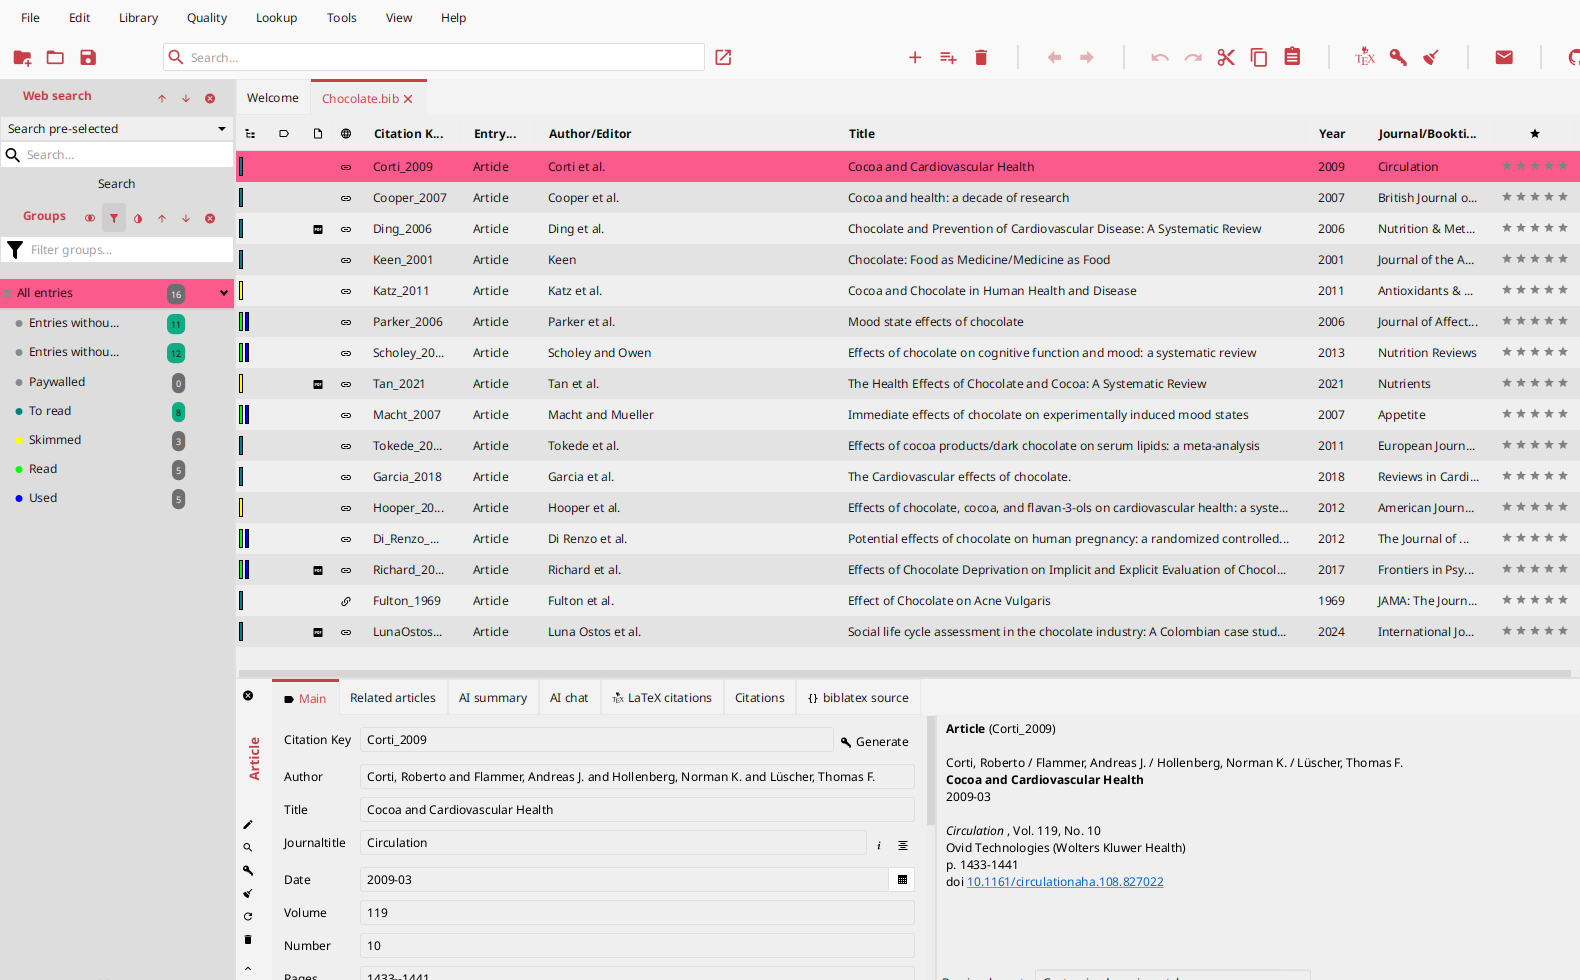
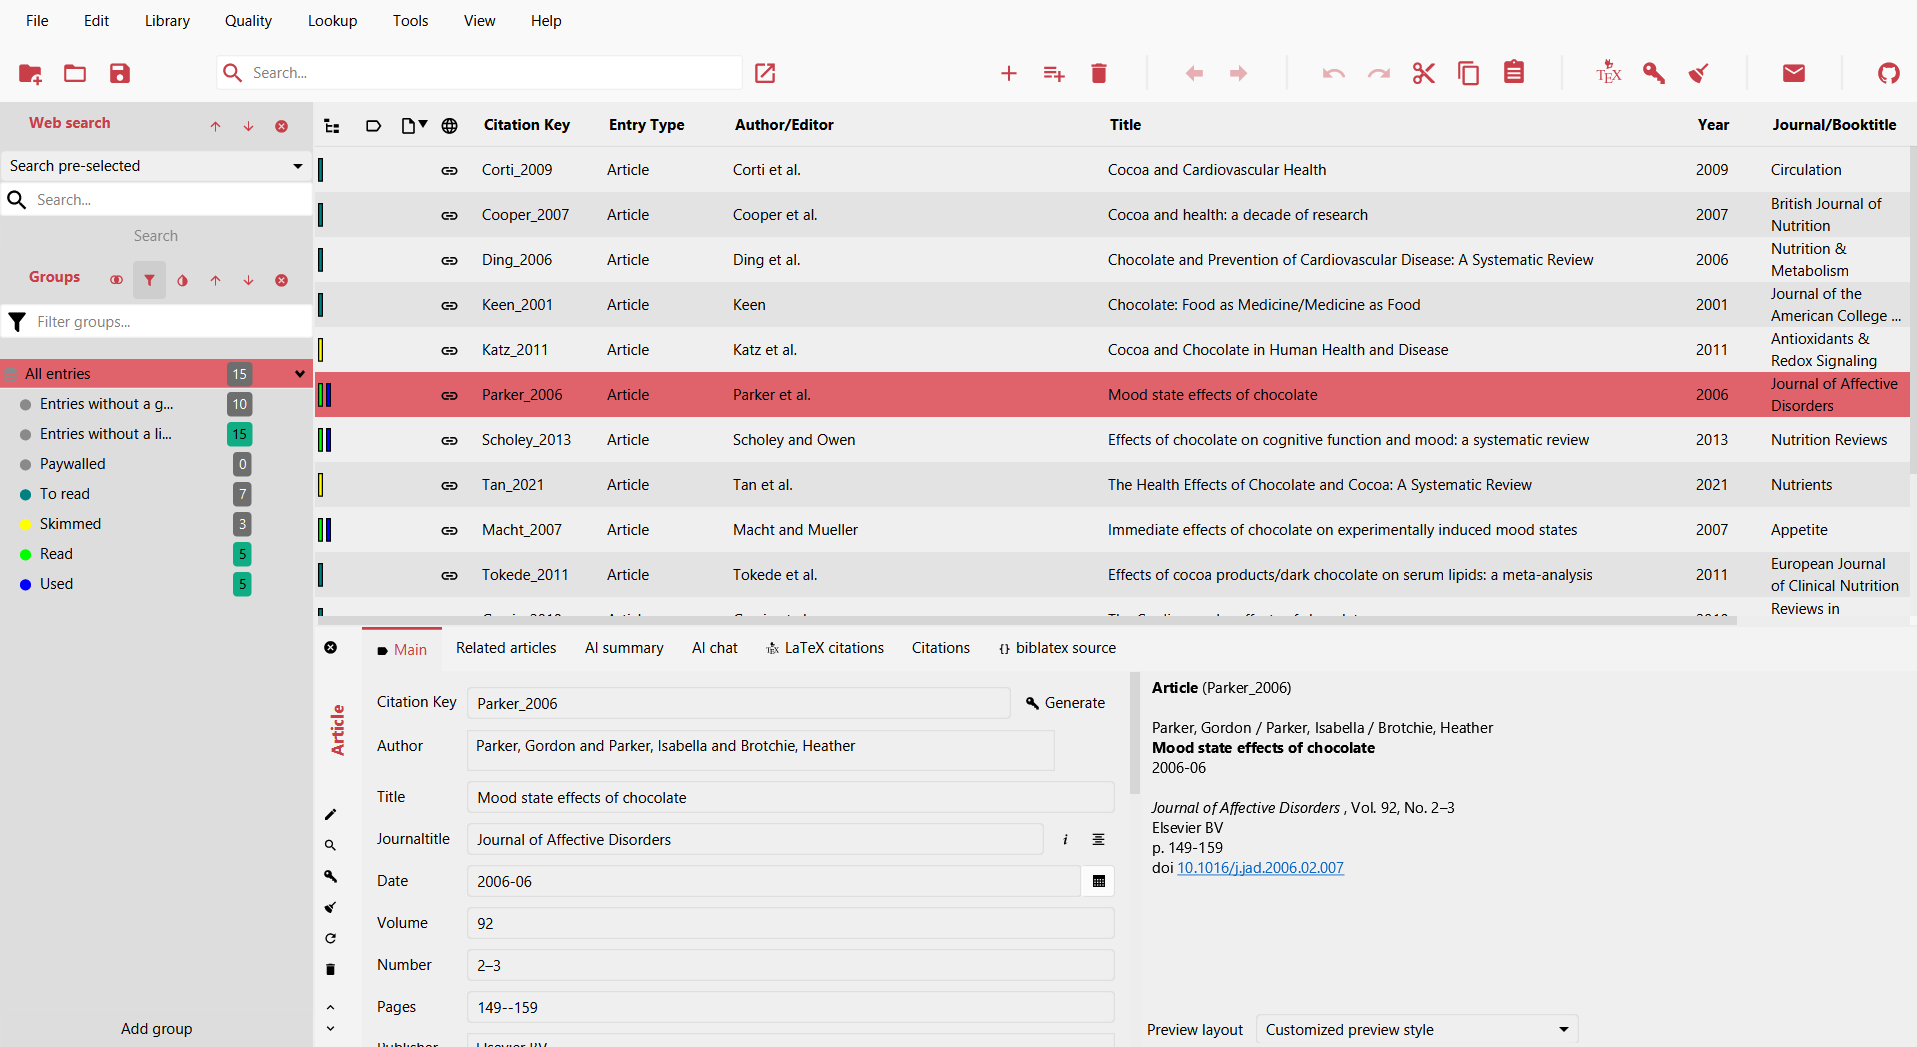
Fix dinogirl iced strawberry light theme

diff --git a/themes/DinoGirls Themes/winered-icedstrawberry-contrasttext.css b/themes/DinoGirls Themes/winered-icedstrawberry-contrasttext.css
@@ -57,10 +57,10 @@
         -color-border-muted: derive(-fx-color, -5%);
         -color-accent: #C83F49;
         -color-link: #C83F49;
-        -color-accent-subtle: #D76769;
-        -color-selection: #D76769;
+        -color-accent-subtle: #E0626B;
+        -color-selection: #E0626B;
         -color-button: transparent;
-        -color-button-default: derive(#D76769, 50%);
+        -color-button-default: derive(#E0626B, 50%);
         -color-button-hover: #FCCEDC;
         -color-button-pressed: #0002;
         -color-overlay-hover: #0001;
@@ -74,9 +74,9 @@
         -color-syntax-keyword: #7559C2;
         -color-scrollbar-thumb: derive(derive(#ebebeb, -5%), -30%);
         -color-scrollbar-track: derive(derive(#ebebeb, 95%), -10%);
-        -color-tooltip-bg: #D76769;
-        -color-drag-target: #D76769;
-        -color-drag-target-hover: derive(#D76769, 80%);
+        -color-tooltip-bg: #E0626B;
+        -color-drag-target: #E0626B;
+        -color-drag-target-hover: derive(#E0626B, 80%);
         -color-badge-bg: derive(#dddddd, -50%);
     }
 }

diff --git a/themes/DinoGirls Themes/winered-icedstrawberry-greytext.css b/themes/DinoGirls Themes/winered-icedstrawberry-greytext.css
@@ -57,10 +57,10 @@
         -color-border-muted: derive(-fx-color, -5%);
         -color-accent: #C83F49;
         -color-link: #C83F49;
-        -color-accent-subtle: #D76769;
-        -color-selection: #D76769;
+        -color-accent-subtle: #E0626B;
+        -color-selection: #E0626B;
         -color-button: transparent;
-        -color-button-default: derive(#D76769, 50%);
+        -color-button-default: derive(#E0626B, 50%);
         -color-button-hover: #FCCEDC;
         -color-button-pressed: #0002;
         -color-overlay-hover: #0001;
@@ -74,9 +74,9 @@
         -color-syntax-keyword: #7559C2;
         -color-scrollbar-thumb: derive(derive(#ebebeb, -5%), -30%);
         -color-scrollbar-track: derive(derive(#ebebeb, 95%), -10%);
-        -color-tooltip-bg: #D76769;
-        -color-drag-target: #D76769;
-        -color-drag-target-hover: derive(#D76769, 80%);
+        -color-tooltip-bg: #E0626B;
+        -color-drag-target: #E0626B;
+        -color-drag-target-hover: derive(#E0626B, 80%);
         -color-badge-bg: derive(#dddddd, -50%);
     }
 }
